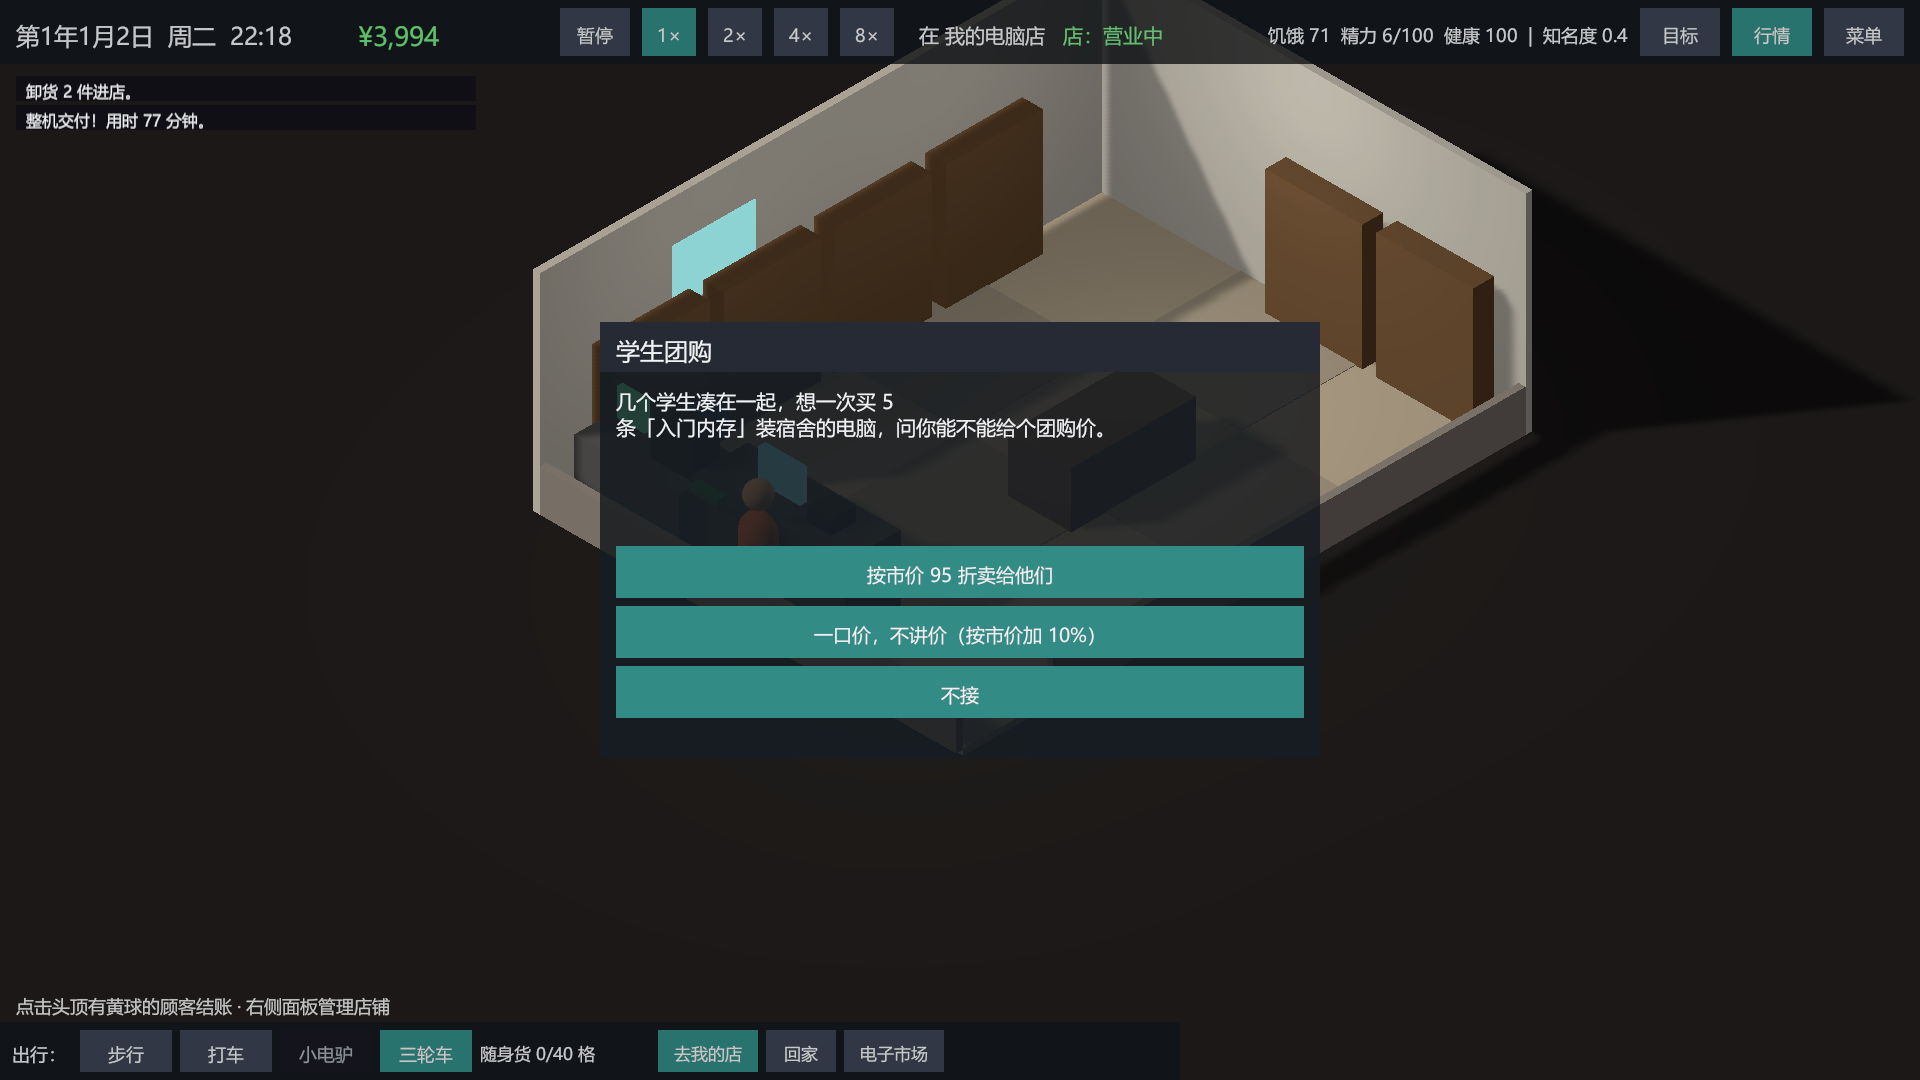
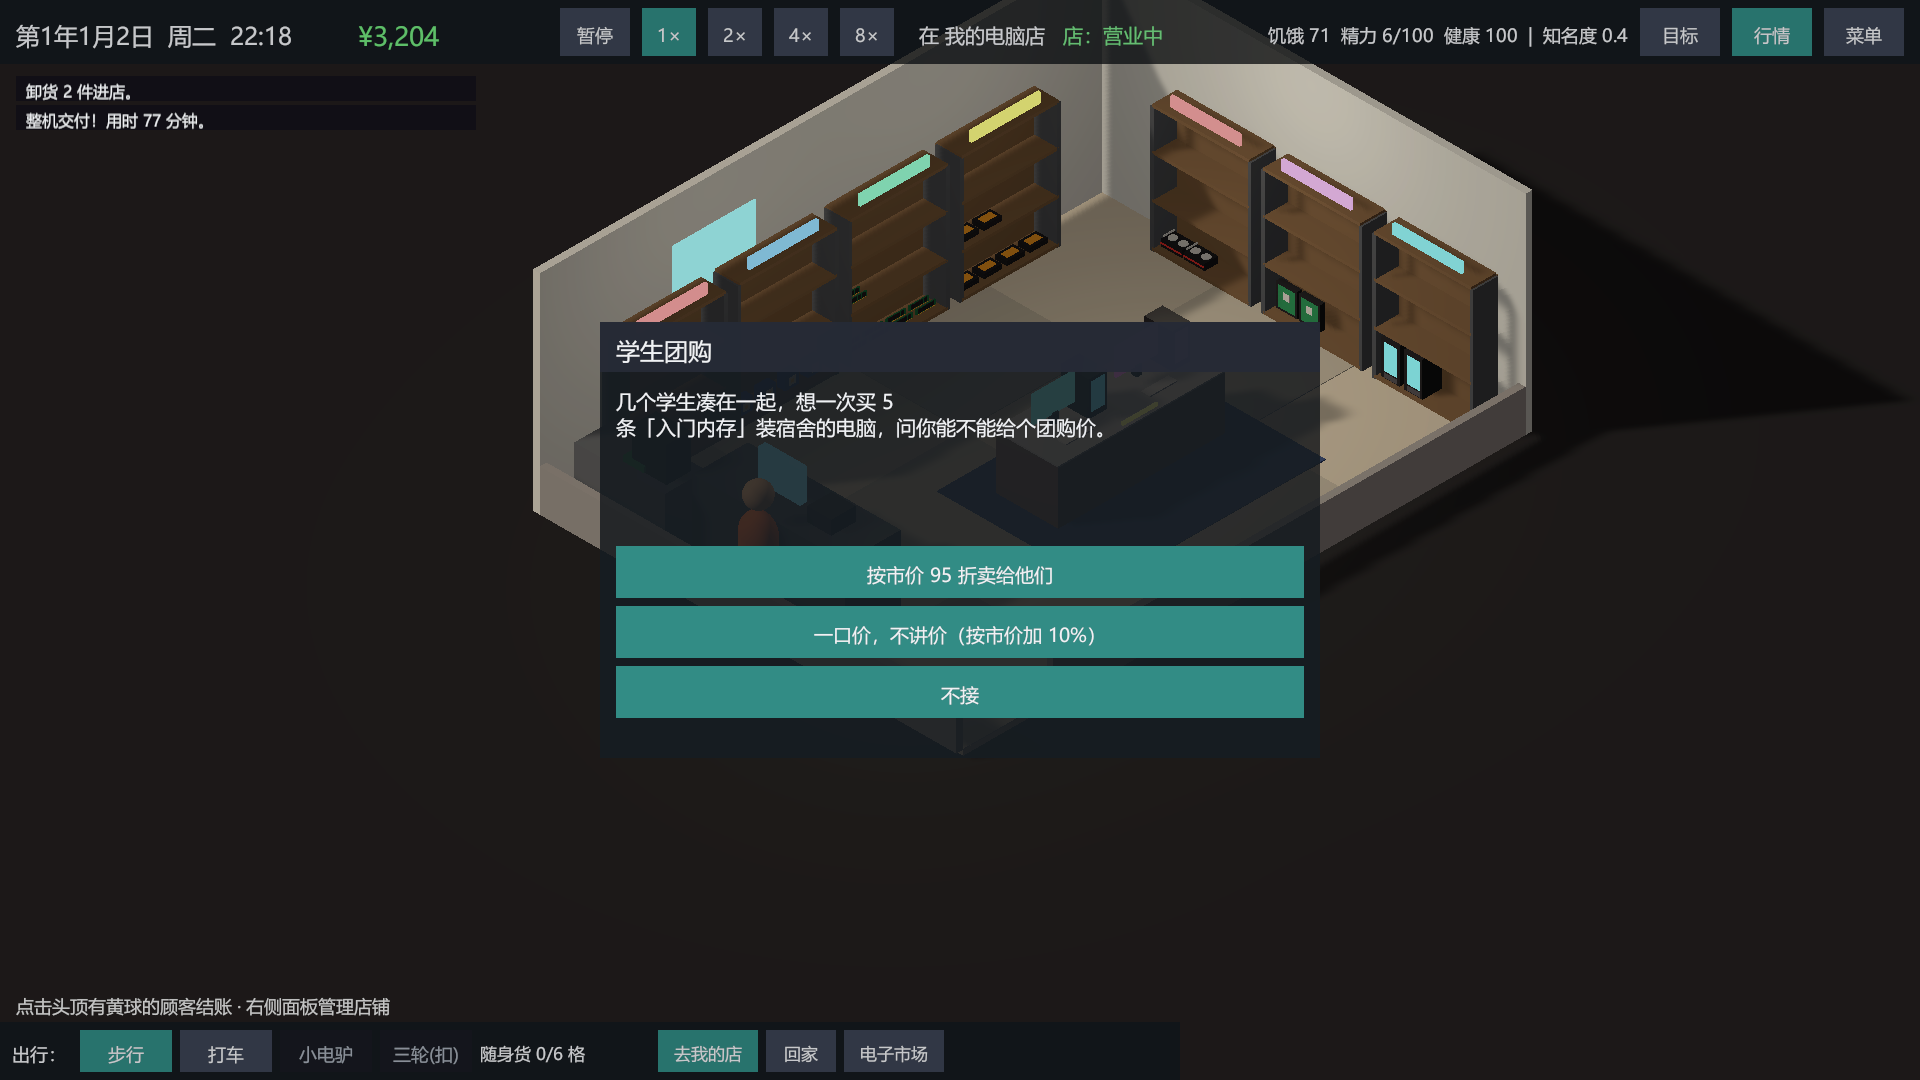
店内货架按品类摆放配件模型，新增整机展示桌

diff --git a/Assets/Scripts/Game/Runtime/ShopFixtures.cs b/Assets/Scripts/Game/Runtime/ShopFixtures.cs
@@ -1,0 +1,142 @@
+using System.Collections.Generic;
+using PCShopSell.Core.Catalog;
+using UnityEngine;
+
+namespace PCShopSell.Game.Runtime
+{
+    /// <summary>一个货架上摆的同类配件。库存多少决定亮出几件。</summary>
+    internal sealed class ShelfDisplay
+    {
+        public PartCategory Category;
+        public readonly List<GameObject> Items = new List<GameObject>();
+    }
+
+    /// <summary>店内陈设：分品类的货架（显卡、CPU、内存、硬盘、主板、机箱电源）和整机展示台。全是积木拼的低模。</summary>
+    internal static class ShopFixtures
+    {
+        public const int Columns = 4;
+        public const int Rows = 3;
+        private static readonly float[] BoardCenters = { 0.03f, 0.63f, 1.23f, 1.81f };
+
+        public static Color CategoryColor(PartCategory c)
+        {
+            switch (c)
+            {
+                case PartCategory.Gpu: return new Color(0.85f, 0.25f, 0.25f);
+                case PartCategory.Cpu: return new Color(0.2f, 0.45f, 0.9f);
+                case PartCategory.Memory: return new Color(0.2f, 0.75f, 0.4f);
+                case PartCategory.Storage: return new Color(0.95f, 0.65f, 0.15f);
+                case PartCategory.Motherboard: return new Color(0.6f, 0.35f, 0.85f);
+                default: return new Color(0.2f, 0.8f, 0.85f);
+            }
+        }
+
+        /// <summary>货架。局部坐标：x 为宽（1.4 m），z 朝店内为负，靠墙的一面在 +z。</summary>
+        public static ShelfDisplay BuildShelf(Transform parent, Vector3 pos, float yawDeg, PartCategory cat)
+        {
+            var root = new GameObject("Shelf_" + cat).transform;
+            root.SetParent(parent, false);
+            root.localPosition = pos;
+            root.localRotation = Quaternion.Euler(0, yawDeg, 0);
+
+            Material wood = Mats.Lit(new Color(0.45f, 0.35f, 0.25f));
+            Material frame = Mats.Lit(new Color(0.3f, 0.32f, 0.36f), 0.5f);
+            Prims.Box(root, "Back", new Vector3(0, 0.9f, 0.175f), new Vector3(1.4f, 1.8f, 0.05f), wood);
+            Prims.Box(root, "PostL", new Vector3(-0.7f, 0.9f, 0f), new Vector3(0.05f, 1.8f, 0.36f), frame);
+            Prims.Box(root, "PostR", new Vector3(0.7f, 0.9f, 0f), new Vector3(0.05f, 1.8f, 0.36f), frame);
+            foreach (float y in BoardCenters) Prims.Box(root, "Board", new Vector3(0, y, 0f), new Vector3(1.4f, 0.04f, 0.36f), wood);
+            Color cc = CategoryColor(cat);
+            Prims.Box(root, "Sign", new Vector3(0, 1.93f, -0.1f), new Vector3(1.0f, 0.14f, 0.04f), Mats.Glow(cc * 0.6f, cc * 1.6f, false));
+
+            var display = new ShelfDisplay { Category = cat };
+            for (int r = 0; r < Rows; r++)
+            for (int c = 0; c < Columns; c++)
+            {
+                Vector3 p = new Vector3(-0.495f + c * 0.33f, BoardCenters[r] + 0.02f, -0.01f);
+                display.Items.Add(PartModel(root, cat, p));
+            }
+            return display;
+        }
+
+        /// <summary>一件配件的小模型，脚底在 pos，正面朝 -z。</summary>
+        public static GameObject PartModel(Transform parent, PartCategory cat, Vector3 pos)
+        {
+            var g = new GameObject("Part_" + cat);
+            Transform t = g.transform;
+            t.SetParent(parent, false);
+            t.localPosition = pos;
+
+            Material dark = Mats.Lit(new Color(0.12f, 0.12f, 0.14f), 0.4f);
+            Material silver = Mats.Lit(new Color(0.8f, 0.82f, 0.85f), 0.6f);
+            switch (cat)
+            {
+                case PartCategory.Gpu:
+                    Prims.Box(t, "Body", new Vector3(0, 0.05f, 0), new Vector3(0.30f, 0.09f, 0.20f), dark);
+                    Prims.Shape(PrimitiveType.Cylinder, t, "FanL", new Vector3(-0.075f, 0.098f, 0), new Vector3(0.11f, 0.004f, 0.11f), silver);
+                    Prims.Shape(PrimitiveType.Cylinder, t, "FanR", new Vector3(0.075f, 0.098f, 0), new Vector3(0.11f, 0.004f, 0.11f), silver);
+                    Prims.Box(t, "Stripe", new Vector3(0, 0.05f, -0.102f), new Vector3(0.30f, 0.02f, 0.006f), Mats.Lit(new Color(0.85f, 0.2f, 0.2f)));
+                    Prims.Box(t, "Bracket", new Vector3(-0.152f, 0.06f, 0.02f), new Vector3(0.006f, 0.12f, 0.16f), silver);
+                    break;
+                case PartCategory.Cpu:
+                    Prims.Box(t, "Box", new Vector3(0, 0.09f, 0), new Vector3(0.20f, 0.18f, 0.12f), Mats.Lit(new Color(0.15f, 0.32f, 0.75f)));
+                    Prims.Box(t, "Chip", new Vector3(0, 0.09f, -0.062f), new Vector3(0.10f, 0.10f, 0.005f), silver);
+                    Prims.Box(t, "Gold", new Vector3(0, 0.09f, -0.066f), new Vector3(0.04f, 0.04f, 0.004f), Mats.Lit(new Color(0.9f, 0.7f, 0.2f), 0.7f));
+                    break;
+                case PartCategory.Memory:
+                    for (int s = 0; s < 2; s++)
+                    {
+                        float z = s == 0 ? -0.05f : 0.05f;
+                        Prims.Box(t, "Stick", new Vector3(0, 0.04f, z), new Vector3(0.28f, 0.07f, 0.012f), Mats.Lit(new Color(0.1f, 0.4f, 0.25f)));
+                        for (int k = 0; k < 4; k++)
+                            Prims.Box(t, "Chip", new Vector3(-0.09f + k * 0.06f, 0.045f, z - 0.01f), new Vector3(0.045f, 0.05f, 0.012f), dark);
+                        Prims.Box(t, "Gold", new Vector3(0, 0.003f, z), new Vector3(0.26f, 0.008f, 0.014f), Mats.Lit(new Color(0.9f, 0.7f, 0.2f), 0.7f));
+                    }
+                    break;
+                case PartCategory.Storage:
+                    for (int s = 0; s < 2; s++)
+                    {
+                        Prims.Box(t, "Ssd", new Vector3(0, 0.015f + s * 0.034f, 0), new Vector3(0.26f, 0.03f, 0.17f), dark);
+                        Prims.Box(t, "Label", new Vector3(0, 0.031f + s * 0.034f, 0), new Vector3(0.18f, 0.004f, 0.10f), Mats.Lit(new Color(0.9f, 0.6f, 0.15f)));
+                    }
+                    break;
+                case PartCategory.Motherboard:
+                    Prims.Box(t, "Box", new Vector3(0, 0.17f, 0), new Vector3(0.30f, 0.34f, 0.07f), dark);
+                    Prims.Box(t, "Print", new Vector3(0, 0.17f, -0.037f), new Vector3(0.24f, 0.28f, 0.004f), Mats.Lit(new Color(0.15f, 0.55f, 0.35f)));
+                    Prims.Box(t, "Socket", new Vector3(0, 0.2f, -0.041f), new Vector3(0.09f, 0.09f, 0.004f), silver);
+                    break;
+                default: // 电源机箱
+                    Prims.Box(t, "Case", new Vector3(0, 0.25f, 0), new Vector3(0.26f, 0.5f, 0.28f), dark);
+                    Prims.Box(t, "Glass", new Vector3(0, 0.27f, -0.142f), new Vector3(0.19f, 0.36f, 0.004f), Mats.Glow(new Color(0.1f, 0.3f, 0.4f), new Color(0.3f, 1.2f, 1.6f), false));
+                    Prims.Box(t, "Psu", new Vector3(0, 0.04f, -0.142f), new Vector3(0.19f, 0.06f, 0.004f), Mats.Lit(new Color(0.3f, 0.3f, 0.34f)));
+                    break;
+            }
+            return g;
+        }
+
+        /// <summary>整机展示台：一张长桌，两套开着机的整机（显示器 + 主机 + 键盘）。正面朝 -z，台下铺地毯。</summary>
+        public static void BuildPcDesk(Transform parent, Vector3 pos, int seed)
+        {
+            var root = new GameObject("PcDesk").transform;
+            root.SetParent(parent, false);
+            root.localPosition = pos;
+
+            Prims.Box(root, "Rug", new Vector3(0, 0.012f, -0.3f), new Vector3(3.2f, 0.014f, 2.4f), Mats.Lit(new Color(0.22f, 0.3f, 0.5f)));
+            Prims.Box(root, "Desk", new Vector3(0, 0.4f, 0), new Vector3(2.4f, 0.8f, 0.9f), Mats.Lit(new Color(0.5f, 0.4f, 0.3f)));
+            Prims.Box(root, "DeskTop", new Vector3(0, 0.805f, 0), new Vector3(2.44f, 0.02f, 0.94f), Mats.Lit(new Color(0.75f, 0.75f, 0.78f), 0.5f));
+
+            Color[] screens = { new Color(0.3f, 1.0f, 1.8f), new Color(1.2f, 0.4f, 1.6f), new Color(0.4f, 1.5f, 0.6f), new Color(1.6f, 0.9f, 0.3f) };
+            for (int i = 0; i < 2; i++)
+            {
+                float cx = i == 0 ? -0.6f : 0.6f;
+                Color sc = screens[(seed + i) % screens.Length];
+                Prims.Box(root, "Stand", new Vector3(cx - 0.1f, 0.88f, 0.12f), new Vector3(0.08f, 0.14f, 0.08f), Mats.Lit(new Color(0.12f, 0.12f, 0.14f)));
+                Prims.Box(root, "Screen", new Vector3(cx - 0.1f, 1.12f, 0.12f), new Vector3(0.62f, 0.38f, 0.03f), Mats.Glow(sc * 0.2f, sc, false));
+                Prims.Box(root, "Keyboard", new Vector3(cx - 0.1f, 0.82f, -0.2f), new Vector3(0.4f, 0.02f, 0.13f), Mats.Lit(new Color(0.85f, 0.85f, 0.88f)));
+                Prims.Box(root, "Tower", new Vector3(cx + 0.32f, 1.06f, 0.1f), new Vector3(0.26f, 0.5f, 0.4f), Mats.Lit(new Color(0.1f, 0.1f, 0.12f), 0.5f));
+                Prims.Box(root, "TowerGlass", new Vector3(cx + 0.32f, 1.08f, -0.102f), new Vector3(0.19f, 0.38f, 0.004f), Mats.Glow(sc * 0.15f, sc * 0.8f, false));
+            }
+            // 价签牌
+            Prims.Box(root, "Tag", new Vector3(0, 0.84f, -0.42f), new Vector3(0.5f, 0.05f, 0.02f), Mats.Glow(new Color(0.9f, 0.8f, 0.2f), new Color(2.2f, 1.8f, 0.3f), false));
+        }
+    }
+}

diff --git a/Assets/Scripts/Game/Runtime/ShopInteriorView.cs b/Assets/Scripts/Game/Runtime/ShopInteriorView.cs
@@ -1,4 +1,5 @@
 using System.Collections.Generic;
+using PCShopSell.Core.Catalog;
 using PCShopSell.Core.Inventory;
 using PCShopSell.Core.Session;
 using PCShopSell.Core.Shop;
@@ -37,7 +38,7 @@ namespace PCShopSell.Game.Runtime
         private readonly Dictionary<int, Visitor> _visitors = new Dictionary<int, Visitor>();
         private readonly List<Visitor> _leaving = new List<Visitor>();
         private readonly List<Vector3> _shelfSpots = new List<Vector3>();
-        private readonly List<GameObject> _shelfItems = new List<GameObject>();
+        private readonly List<ShelfDisplay> _shelves = new List<ShelfDisplay>();
         private readonly System.Random _rng = new System.Random(5);
         private readonly GameObject _owner;
         private readonly GameObject _clerk;
@@ -115,27 +116,23 @@ namespace PCShopSell.Game.Runtime
                 lamp.color = new Color(1f, 0.95f, 0.85f);
             }
 
-            // 货架：沿后墙和右墙
-            Material shelfMat = Mats.Lit(new Color(0.45f, 0.35f, 0.25f));
-            int backShelves = Mathf.Max(1, Mathf.FloorToInt((w - 1.5f) / 1.6f));
+            // 货架：沿后墙和右墙，每个货架摆一类配件（显卡、CPU、内存、硬盘、机箱电源、主板轮流）
+            PartCategory[] cats = { PartCategory.Gpu, PartCategory.Cpu, PartCategory.Memory, PartCategory.Storage, PartCategory.PowerCase, PartCategory.Motherboard };
+            int shelfNo = 0;
+            int backShelves = Mathf.Max(1, Mathf.FloorToInt((w - 2.8f) / 1.6f) + 1);
             for (int i = 0; i < backShelves; i++)
             {
-                float x = 1.3f + i * 1.6f;
-                Prims.Box(_root, "Shelf", new Vector3(x, 0.9f, d - 0.2f), new Vector3(1.4f, 1.8f, 0.3f), shelfMat);
+                float x = 1.5f + i * 1.6f;
+                _shelves.Add(ShopFixtures.BuildShelf(_root, new Vector3(x, 0, d - 0.2f), 0f, cats[shelfNo++ % cats.Length]));
                 _shelfSpots.Add(Origin + new Vector3(x, 0, d - 1.2f));
-                for (int k = 0; k < 6; k++)
-                    _shelfItems.Add(Prims.Box(_root, "Item", new Vector3(x - 0.5f + (k % 3) * 0.5f, 0.45f + (k / 3) * 0.7f, d - 0.5f), new Vector3(0.38f, 0.38f, 0.3f), Mats.Lit(ItemColor())));
             }
-            int sideShelves = Mathf.Max(0, Mathf.FloorToInt((d - 2f) / 1.6f));
+            int sideShelves = Mathf.Max(0, Mathf.FloorToInt((d - 2.25f) / 1.6f) + 1);
             for (int i = 0; i < sideShelves; i++)
             {
                 float z = 1.0f + i * 1.6f;
-                Prims.Box(_root, "Shelf", new Vector3(w - 0.2f, 0.9f, z), new Vector3(0.3f, 1.8f, 1.4f), shelfMat);
+                _shelves.Add(ShopFixtures.BuildShelf(_root, new Vector3(w - 0.2f, 0, z), 90f, cats[shelfNo++ % cats.Length]));
                 _shelfSpots.Add(Origin + new Vector3(w - 1.2f, 0, z));
-                for (int k = 0; k < 6; k++)
-                    _shelfItems.Add(Prims.Box(_root, "Item", new Vector3(w - 0.5f, 0.45f + (k / 3) * 0.7f, z - 0.5f + (k % 3) * 0.5f), new Vector3(0.3f, 0.38f, 0.38f), Mats.Lit(ItemColor())));
             }
-
             // 柜台 + 电脑（靠左前方）
             Vector3 counter = new Vector3(0.9f, 0.5f, d * 0.55f);
             Prims.Box(_root, "Counter", counter, new Vector3(0.8f, 1.0f, Mathf.Min(2.2f, d * 0.5f)), Mats.Lit(new Color(0.3f, 0.32f, 0.36f), 0.5f));
@@ -143,29 +140,26 @@ namespace PCShopSell.Game.Runtime
             Prims.Box(_root, "Register", counter + new Vector3(0, 0.6f, -0.5f), new Vector3(0.35f, 0.2f, 0.35f), Mats.Lit(new Color(0.15f, 0.15f, 0.15f)));
 
             // 装机台（靠左墙后部）：有装机单时屏幕亮着
-            Prims.Box(_root, "Workbench", new Vector3(0.7f, 0.45f, d - 0.9f), new Vector3(0.9f, 0.9f, 1.5f), Mats.Lit(new Color(0.36f, 0.38f, 0.42f), 0.5f));
-            Prims.Box(_root, "BenchCase", new Vector3(0.7f, 1.15f, d - 1.3f), new Vector3(0.4f, 0.5f, 0.6f), Mats.Lit(new Color(0.12f, 0.12f, 0.14f), 0.6f));
-            _buildGlow.Add(Prims.Box(_root, "BenchScreen", new Vector3(0.7f, 1.2f, d - 0.5f), new Vector3(0.08f, 0.4f, 0.5f), Mats.Glow(new Color(0.1f, 0.1f, 0.12f), new Color(0.2f, 1.4f, 0.6f), false)));
-            Prims.Box(_root, "BenchParts", new Vector3(0.55f, 0.95f, d - 1.9f), new Vector3(0.4f, 0.08f, 0.4f), Mats.Lit(new Color(0.15f, 0.5f, 0.3f)));
+            Prims.Box(_root, "Workbench", new Vector3(0.45f, 0.45f, d - 0.9f), new Vector3(0.6f, 0.9f, 1.3f), Mats.Lit(new Color(0.36f, 0.38f, 0.42f), 0.5f));
+            Prims.Box(_root, "BenchCase", new Vector3(0.45f, 1.15f, d - 1.2f), new Vector3(0.35f, 0.5f, 0.5f), Mats.Lit(new Color(0.12f, 0.12f, 0.14f), 0.6f));
+            _buildGlow.Add(Prims.Box(_root, "BenchScreen", new Vector3(0.45f, 1.2f, d - 0.5f), new Vector3(0.06f, 0.4f, 0.45f), Mats.Glow(new Color(0.1f, 0.1f, 0.12f), new Color(0.2f, 1.4f, 0.6f), false)));
+            Prims.Box(_root, "BenchParts", new Vector3(0.4f, 0.95f, d - 1.0f), new Vector3(0.3f, 0.08f, 0.3f), Mats.Lit(new Color(0.15f, 0.5f, 0.3f)));
 
-            // 中间的展示台：中、大店更多
+            // 整机展示区：中间的长桌，上面是开着机的整机；中、大店更多
             var tables = new List<Vector2>();
-            if (size == ShopSize.Small) tables.Add(new Vector2(w * 0.55f, d * 0.4f));
-            else if (size == ShopSize.Medium) { tables.Add(new Vector2(w * 0.4f, d * 0.35f)); tables.Add(new Vector2(w * 0.65f, d * 0.6f)); }
+            if (size == ShopSize.Small) tables.Add(new Vector2(w * 0.58f, d * 0.42f));
+            else if (size == ShopSize.Medium) { tables.Add(new Vector2(w * 0.4f, d * 0.35f)); tables.Add(new Vector2(w * 0.68f, d * 0.6f)); }
             else
             {
                 tables.Add(new Vector2(w * 0.3f, d * 0.3f)); tables.Add(new Vector2(w * 0.55f, d * 0.3f));
                 tables.Add(new Vector2(w * 0.4f, d * 0.65f)); tables.Add(new Vector2(w * 0.68f, d * 0.6f));
             }
-            Material tableMat = Mats.Lit(new Color(0.5f, 0.4f, 0.3f));
-            foreach (Vector2 t in tables)
+            int deskNo = 0;
+            foreach (Vector2 tb in tables)
             {
-                Prims.Box(_root, "Table", new Vector3(t.x, 0.4f, t.y), new Vector3(1.8f, 0.8f, 0.9f), tableMat);
-                for (int k = 0; k < 4; k++)
-                    _shelfItems.Add(Prims.Box(_root, "Item", new Vector3(t.x - 0.6f + k * 0.4f, 0.97f, t.y), new Vector3(0.3f, 0.34f, 0.3f), Mats.Lit(ItemColor())));
-                _shelfSpots.Add(Origin + new Vector3(t.x, 0, t.y - 0.9f));
+                ShopFixtures.BuildPcDesk(_root, new Vector3(tb.x, 0, tb.y), deskNo++);
+                _shelfSpots.Add(Origin + new Vector3(tb.x, 0, tb.y - 1.0f));
             }
-
             _owner = Prims.Figure(_root, "Owner", new Color(0.95f, 0.55f, 0.15f), new Color(0.95f, 0.8f, 0.65f), 1.05f);
             _owner.transform.localPosition = new Vector3(0.35f, 0, d * 0.55f);
             _owner.transform.localRotation = Quaternion.LookRotation(Vector3.right);
@@ -252,12 +246,17 @@ namespace PCShopSell.Game.Runtime
             if (_stockTimer <= 0)
             {
                 _stockTimer = 0.5f;
-                int items = 0;
-                foreach (var line in shop.Stock.Lines()) items += line.Count;
-                int show = Mathf.Min(_shelfItems.Count, items);
-                for (int i = 0; i < _shelfItems.Count; i++) _shelfItems[i].SetActive(i < show);
+                var counts = new Dictionary<PartCategory, int>();
+                foreach (var line in shop.Stock.Lines())
+                    counts[line.Part.Category] = (counts.TryGetValue(line.Part.Category, out int n) ? n : 0) + line.Count;
+                foreach (ShelfDisplay sh in _shelves)
+                {
+                    // 空货架会留几件样品，有货时按库存多少摆满
+                    int stock = counts.TryGetValue(sh.Category, out int have) ? have : 0;
+                    int show = Mathf.Min(sh.Items.Count, stock > 0 ? 3 + stock : 2);
+                    for (int i = 0; i < sh.Items.Count; i++) sh.Items[i].SetActive(i < show);
+                }
             }
-
             var alive = new HashSet<int>();
             int queueIndex = 0;
             var queueIds = new Dictionary<int, int>();

diff --git a/docs/08-current-status.md b/docs/08-current-status.md
@@ -1,7 +1,7 @@
 # 当前状态（2026-10-29）
 
 ## 最新（店内空间与镜头）
-店内场景放大并拉近镜头：小店 8×6 m（48㎡）、中店 12×9 m（108㎡）、大店 18×12 m（216㎡）；镜头默认只框住老板周围（滚轮可缩放，最大能看全店），并跟着老板走。点地板老板会走过去（自动绕柜台），点顾客头顶的黄球结账后会回到柜台。店里新增展示台和装机台（有装机单时装机台的屏幕亮着）。
+店内场景放大并拉近镜头：小店 8×6 m（48㎡）、中店 12×9 m（108㎡）、大店 18×12 m（216㎡）；镜头默认只框住老板周围（滚轮可缩放，最大能看全店），并跟着老板走。点地板老板会走过去（自动绕柜台），点顾客头顶的黄球结账后会回到柜台。店里新增整机展示桌（开着机的整机，中、大店更多）和装机台（有装机单时屏幕亮着）。货架按品类摆放：显卡、CPU、内存、硬盘、主板、机箱电源各有自己的货架和彩色招牌，库存多就摆满，缺货只剩几件样品（`ShopFixtures.cs`）。
 
 ## 前一次（进货渠道的人）
 电子市场四家档口的老板现在是固定人物：能送礼、约晚上/周末出去玩、递烟打听行情（有真有假，可对账）；交情换来更低进价和更大的每日进货额度。设计与数值见 `09-campaign-and-balance.md` 的“四之二”，验收见 `07` 第 22–24 条。
